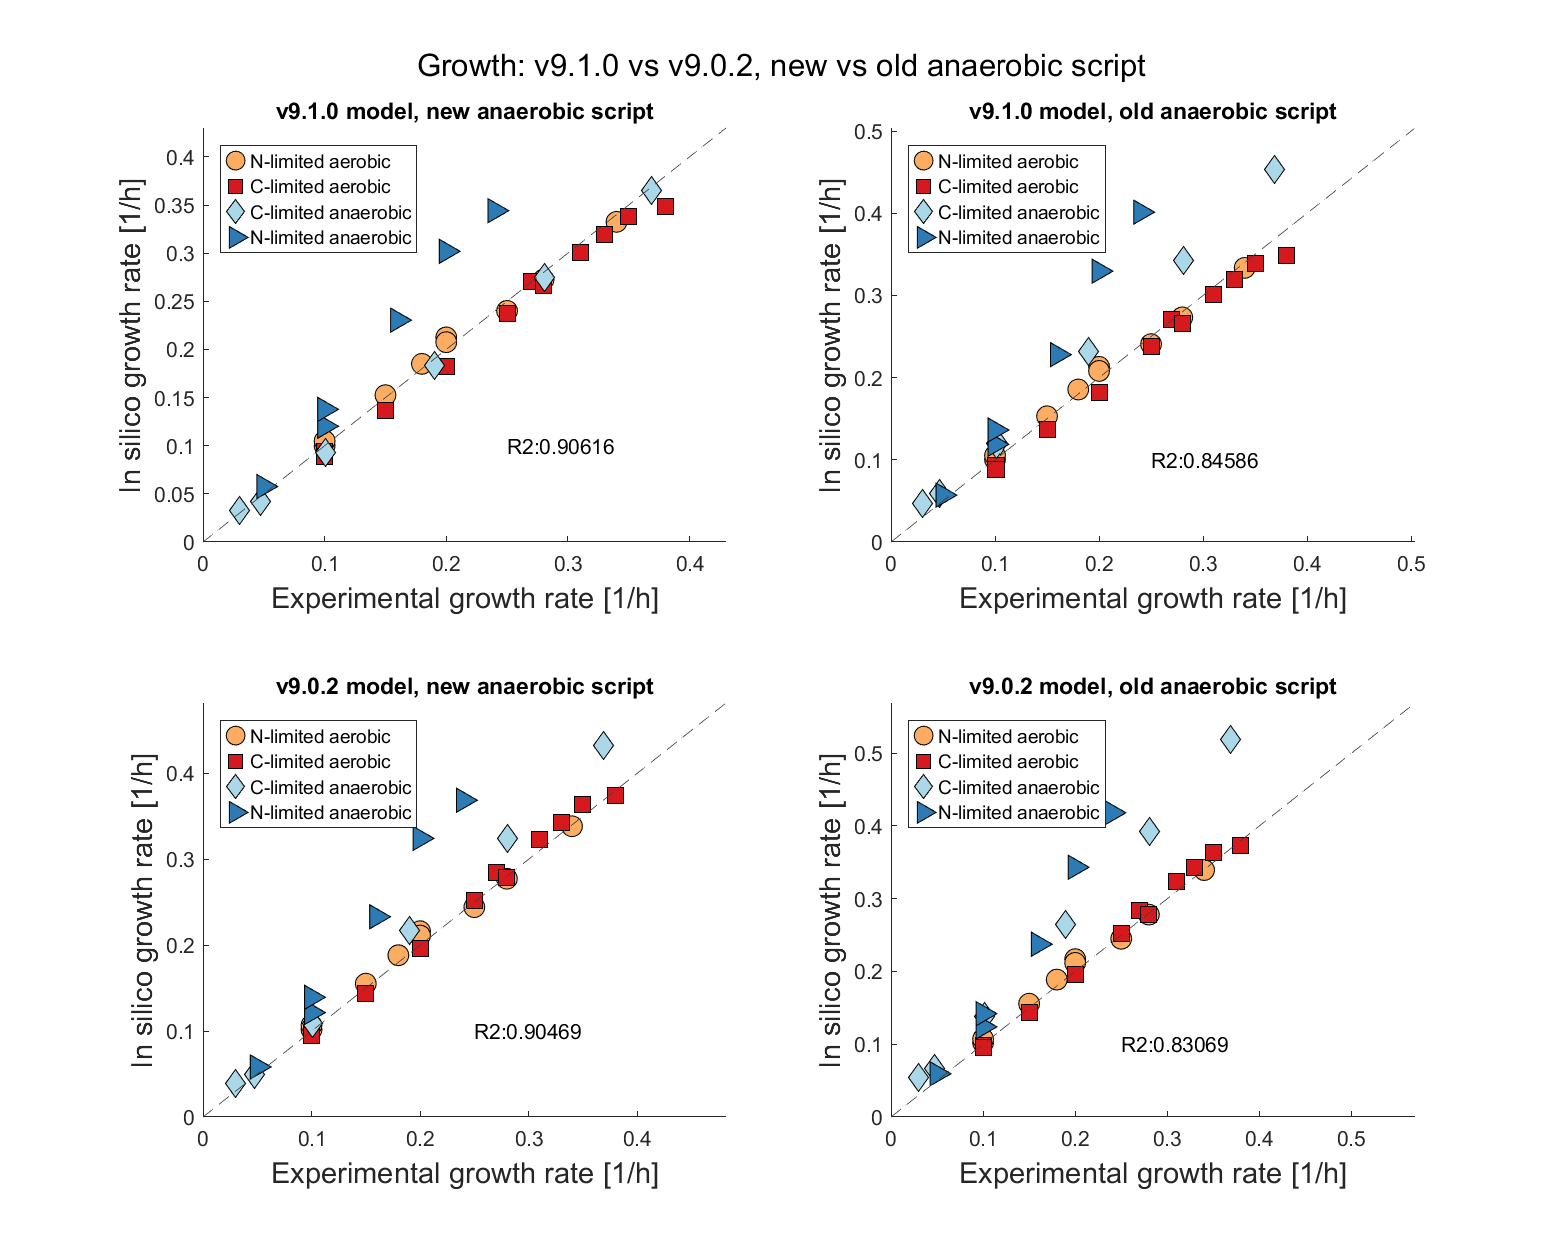
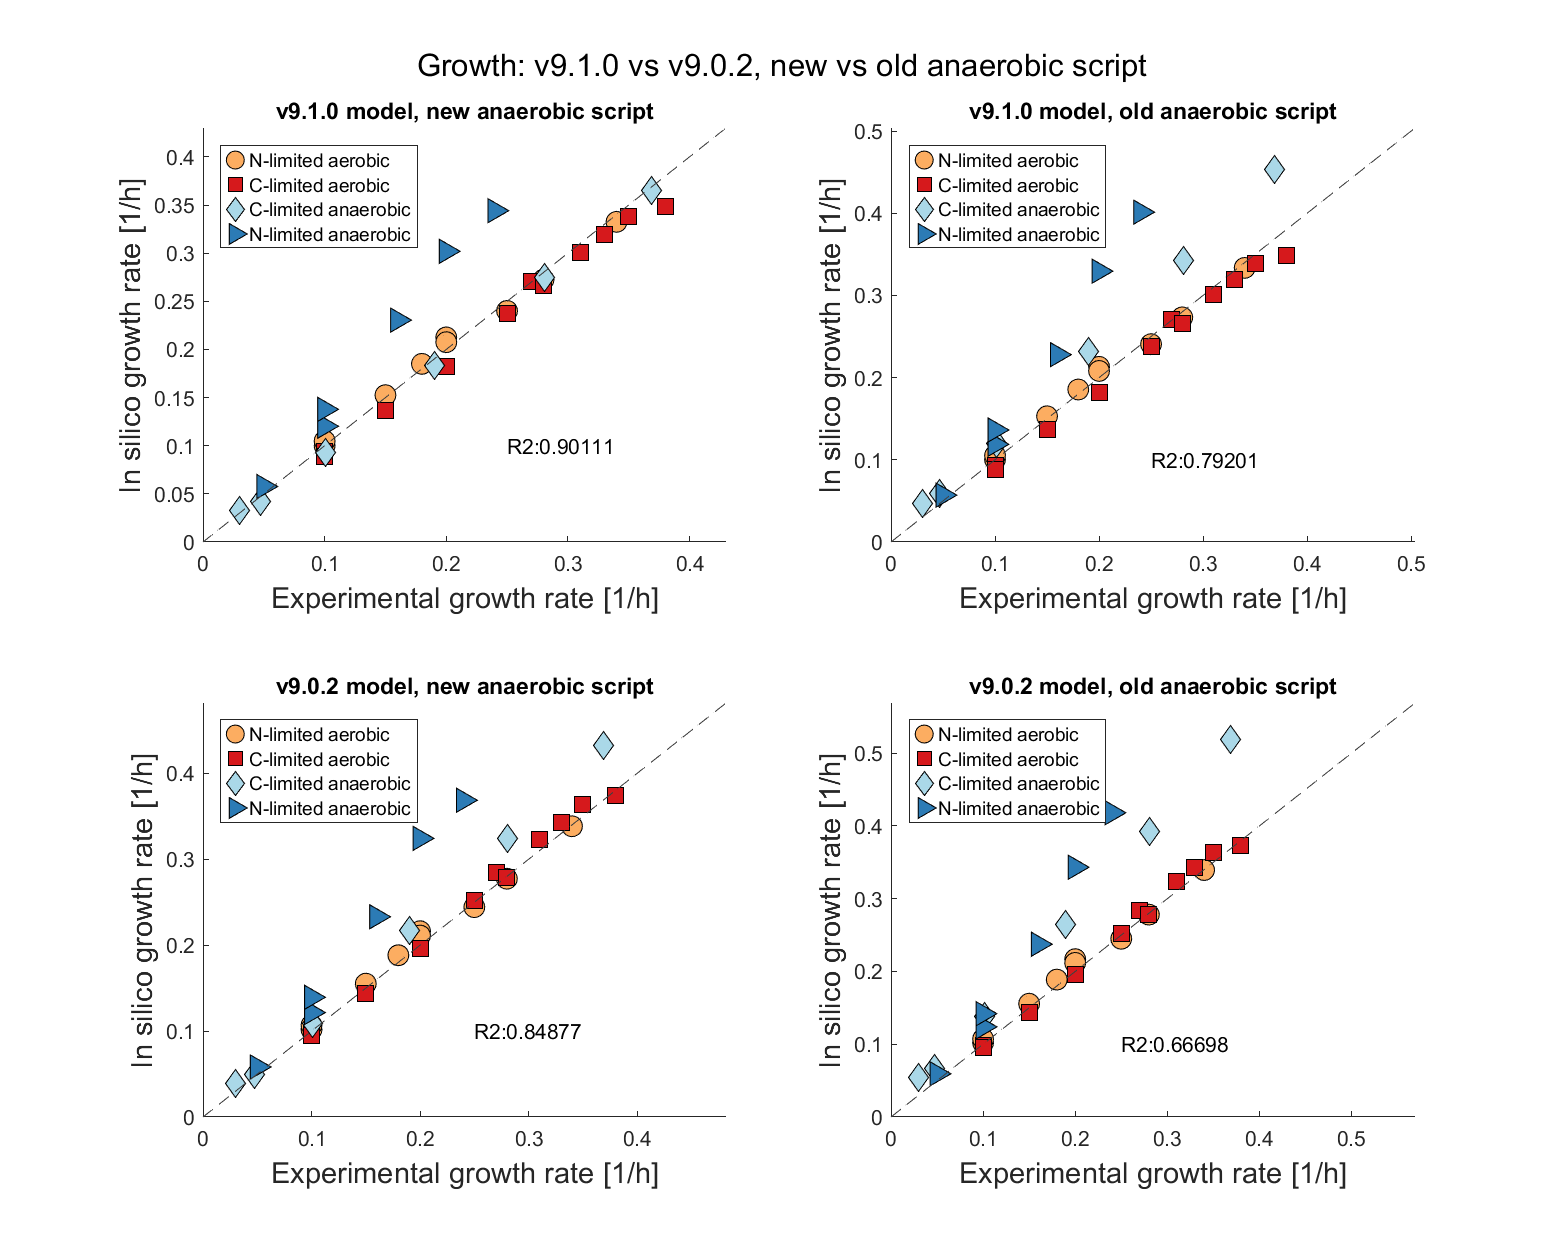
fix: report CoD as R2 and not Pearson's r

diff --git a/code/modelTests/growth.m b/code/modelTests/growth.m
@@ -57,8 +57,10 @@ legend(b,'N-limited aerobic','C-limited aerobic','C-limited anaerobic','N-limite
 % meanerror = sqrt(sum(([exp_data1(:,4);exp_data2(:,4);exp_data3(:,4);exp_data4(:,4)]-[mod_data1(:,4);mod_data2(:,4);mod_data3(:,4);mod_data4(:,4)]).^2)/32)/sqrt(32);
 % text(0.25,0.1,['SEM:',num2str(meanerror)])
 hold off
-R2=corrcoef(exp_data(:,4),mod_data(:,4));
-R2=R2(2)^2;
+% R2 = coefficient of determination about the line of identity, with the
+% experimental values as reference; all data points (no thresholding).
+obs = exp_data(:,4); pred = mod_data(:,4);
+R2 = 1 - sum((obs-pred).^2)/sum((obs-mean(obs)).^2);
 text(0.25,0.1,['R2:',num2str(R2)])
 
 if writeOutput

diff --git a/code/modelTests/growthOld.m b/code/modelTests/growthOld.m
@@ -57,8 +57,10 @@ legend(b,'N-limited aerobic','C-limited aerobic','C-limited anaerobic','N-limite
 % meanerror = sqrt(sum(([exp_data1(:,4);exp_data2(:,4);exp_data3(:,4);exp_data4(:,4)]-[mod_data1(:,4);mod_data2(:,4);mod_data3(:,4);mod_data4(:,4)]).^2)/32)/sqrt(32);
 % text(0.25,0.1,['SEM:',num2str(meanerror)])
 hold off
-R2=corrcoef(exp_data(:,4),mod_data(:,4));
-R2=R2(2)^2;
+% R2 = coefficient of determination about the line of identity, with the
+% experimental values as reference; all data points (no thresholding).
+obs = exp_data(:,4); pred = mod_data(:,4);
+R2 = 1 - sum((obs-pred).^2)/sum((obs-mean(obs)).^2);
 text(0.25,0.1,['R2:',num2str(R2)])
 
 if writeOutput

diff --git a/code/modelTests/anaerobic_flux_predictions.m b/code/modelTests/anaerobic_flux_predictions.m
@@ -45,9 +45,10 @@ end
 
 
 threshold=30;
-R2=corrcoef(merged_sim(merged_data<threshold),merged_data(merged_data<threshold));
-R2=R2(2)^2;
-mean_relative_error=mean(abs((merged_sim(merged_data<threshold)-merged_data(merged_data<threshold))./merged_data(merged_data<threshold)),'omitnan');
+% R2 = coefficient of determination about the line of identity, with the
+% experimental values (merged_data) as reference; all data points (no threshold).
+R2 = 1 - sum((merged_data-merged_sim).^2)/sum((merged_data-mean(merged_data)).^2);
+mean_relative_error = mean(abs((merged_sim-merged_data)./merged_data),'omitnan');
 
 x=0:1:threshold;
 y = x;
